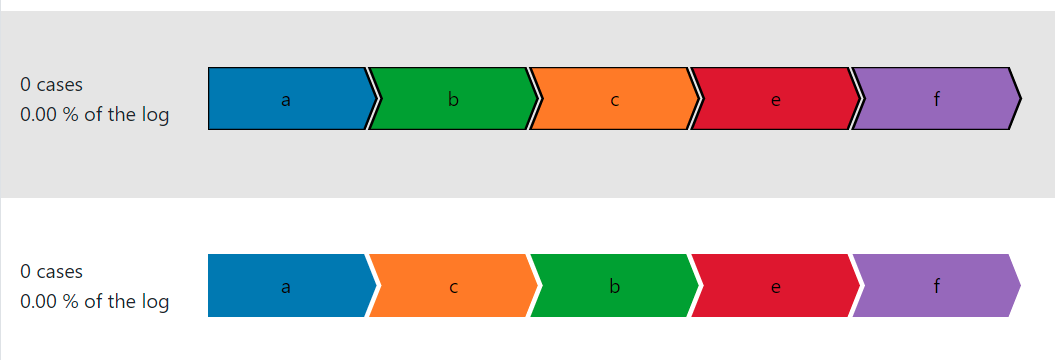
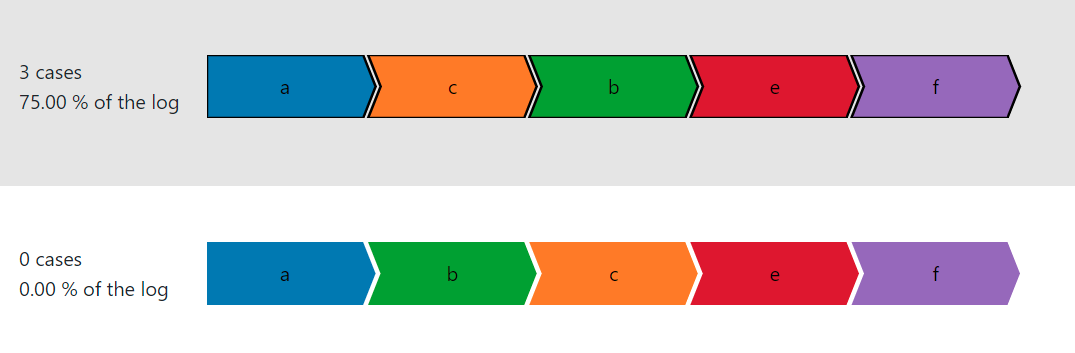
Bug fix scroll caseids (#58)
* -fixed the border of the scrollbar being cut off in save_and_export.html

* -updated 'Info' section after frequency sort

* Fix styling of save and export page

diff --git a/templates/partial_order/combinations.html b/templates/partial_order/combinations.html
@@ -118,7 +118,7 @@
                         On selecting the first partial order group from the previous tab (as seen in the figure above),
                         we get the following possible combinations:<br><br>
                         <img src="../../static/images/info/combinations/combinations.PNG" alt="Combinations"
-                             width="700" height="250"><br>
+                             width="720" height="250"><br>
                         The number of stacked activity groups in the selected partial order group are 1, and it has 2
                         activities, hence we get 2! = 2 combinations.<br><br>
                         The <i>statistics</i> on the left gives information about the existence of that particular
@@ -126,8 +126,10 @@
                         combination are displayed. A combination is nothing but a variant. Since, every possible
                         combination is generated here, there can be combinations/variants (hence also traces) which
                         may not be present in the event log. In such cases the the number and percentage of traces are
-                        simply 0, which is true in this case. There does not exist a complete ordered trace <i>< a, b,
-                        c, e, f ></i> in the event log.<br><br>
+                        simply 0. <br>
+                        In this case, there are 3 traces having the order <i>< a, c, b, e, f ></i> already existing
+                        in the log. This can easily be verified by looking at the events log (Refer the 'info' section
+                        of <i>Partial Order Groups</i> tab for the event log).<br><br>
                         <h6>Further Steps:</h6>
                         Each combination is selectable (grey color appears when hovered on the combination; can be
                         seen in the figure). Selecting a combination will automatically redirect the application to the

diff --git a/templates/partial_order/save_and_export.html b/templates/partial_order/save_and_export.html
@@ -97,20 +97,22 @@
             </div>
             <br>
             <div class="row justify-content-center centered">
+
                 <div class="scrollable">
                     {% for caseId in caseIds %}
-                        {{ caseId|linebreaks }}
+                        <option>{{ caseId }}</option>
                     {% endfor %}
                 </div>
+
             </div>
 
             <br>
             <div class="custom-container centered" id="confirm-final">
-                <input type="submit" class="btn btn-success centered mr-4" name="groupButton" value="Save"
-                       id='save' onclick="save()" title="'Save' will add the combination to the
+                <input type="submit" class="btn btn-success centered m-1" name="groupButton" value="Save"
+                       id="save" onclick="save()" title="'Save' will add the combination to the
                     original log"/>
-                <input type="submit" class="btn btn-danger centered ml-4" name="groupButton" value="Discard"
-                       id='discard' onclick="discarded()" title="'Discard' will delete the combination."/>
+                <input type="submit" class="btn btn-danger centered m-1" name="groupButton" value="Discard"
+                       id="discard" onclick="discarded()" title="'Discard' will delete the combination."/>
                 <br><br>
                 <p id="end" hidden>To proceed further you can manually go to the 'Partial Order Groups'
                     tab. </p>

diff --git a/templates/partial_order/delays.html b/templates/partial_order/delays.html
@@ -246,8 +246,10 @@
                          width="1100" height="95"><br>
                     <div class="text-center">
                         <img src="{% static 'images/info/add_delays/after_delay.PNG' %}" alt="Partial Order Groups"
-                             width="370" height="330"><br><br>
+                             width="370" height="330">
                     </div>
+                    <br>
+                    <i>Note: Negative and zero delays cannot be added.</i><br><br>
                     The webpage displays the added delay in green as seen in the above image. This delay is called
                     delta. A multiple of this delta is added accordingly using an algorithm to make sure all the
                     activities

diff --git a/static/css/partial-order.css b/static/css/partial-order.css
@@ -47,14 +47,16 @@
 .scrollable {
     overflow: scroll;
     height: auto;
-    /*width: 300px;*/
     width: auto;
     min-width: 100px;
     max-height: 100px;
-    /*background-color: #CCC;*/
     overflow-y: auto;
-    border: 1px solid black;
+}
+
+#border-custom {
+    border: 1.5px solid black;
     border-radius: 10px 10px 10px 10px;
+    padding: 2px 2px 2px 10px;
 }
 
 .scrollable-inner {
@@ -116,8 +118,12 @@
     width: 80px;
 }
 
-#save, #discard, #add_delay, #proceed-btn {
+#add_delay, #proceed-btn {
     width: 150px;
+}
+
+#save, #discard {
+    width: 100px;
 }
 
 .picker {
